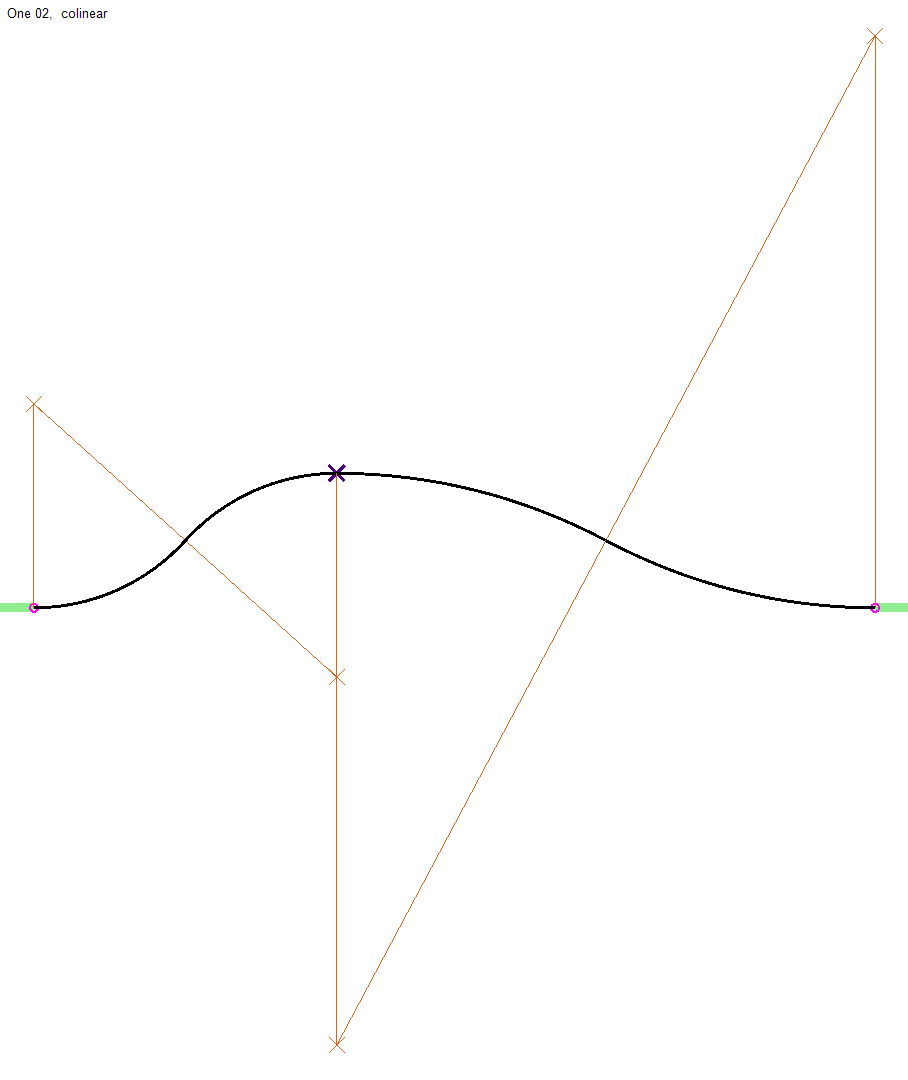
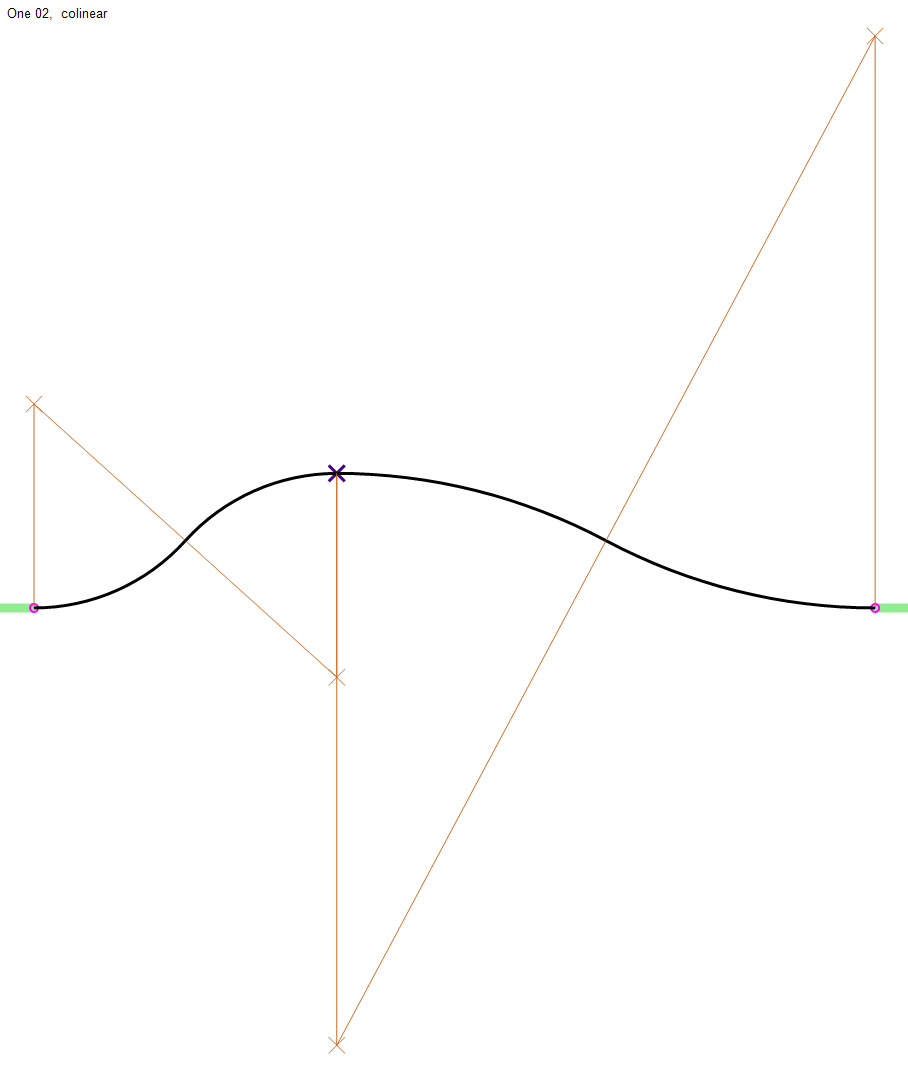
better test output drawing quality

diff --git a/app/iSukces.DrawingPanel.Paths.Test/_drawing/ResultDrawer.cs b/app/iSukces.DrawingPanel.Paths.Test/_drawing/ResultDrawer.cs
@@ -102,6 +102,7 @@ namespace iSukces.DrawingPanel.Paths.Test
             CreateBitmap();
 
             Graph = Graphics.FromImage(Bmp);
+            Graph.SmoothingMode = System.Drawing.Drawing2D.SmoothingMode.HighQuality;
             {
                 Graph.FillRectangle(Brushes.White, 0, 0, Bmp.Width, Bmp.Height);
                 DrawCircleWithVector(_cfg.Start);

diff --git a/app/iSukces.DrawingPanel/_panel/_drawables/GroupDrawable.cs b/app/iSukces.DrawingPanel/_panel/_drawables/GroupDrawable.cs
@@ -2,6 +2,7 @@
 using System.Collections.Generic;
 using System.Collections.Specialized;
 using System.ComponentModel;
+using System.Diagnostics;
 using System.Drawing;
 using iSukces.DrawingPanel.Interfaces;
 using TItem = iSukces.DrawingPanel.Interfaces.IDrawable;
